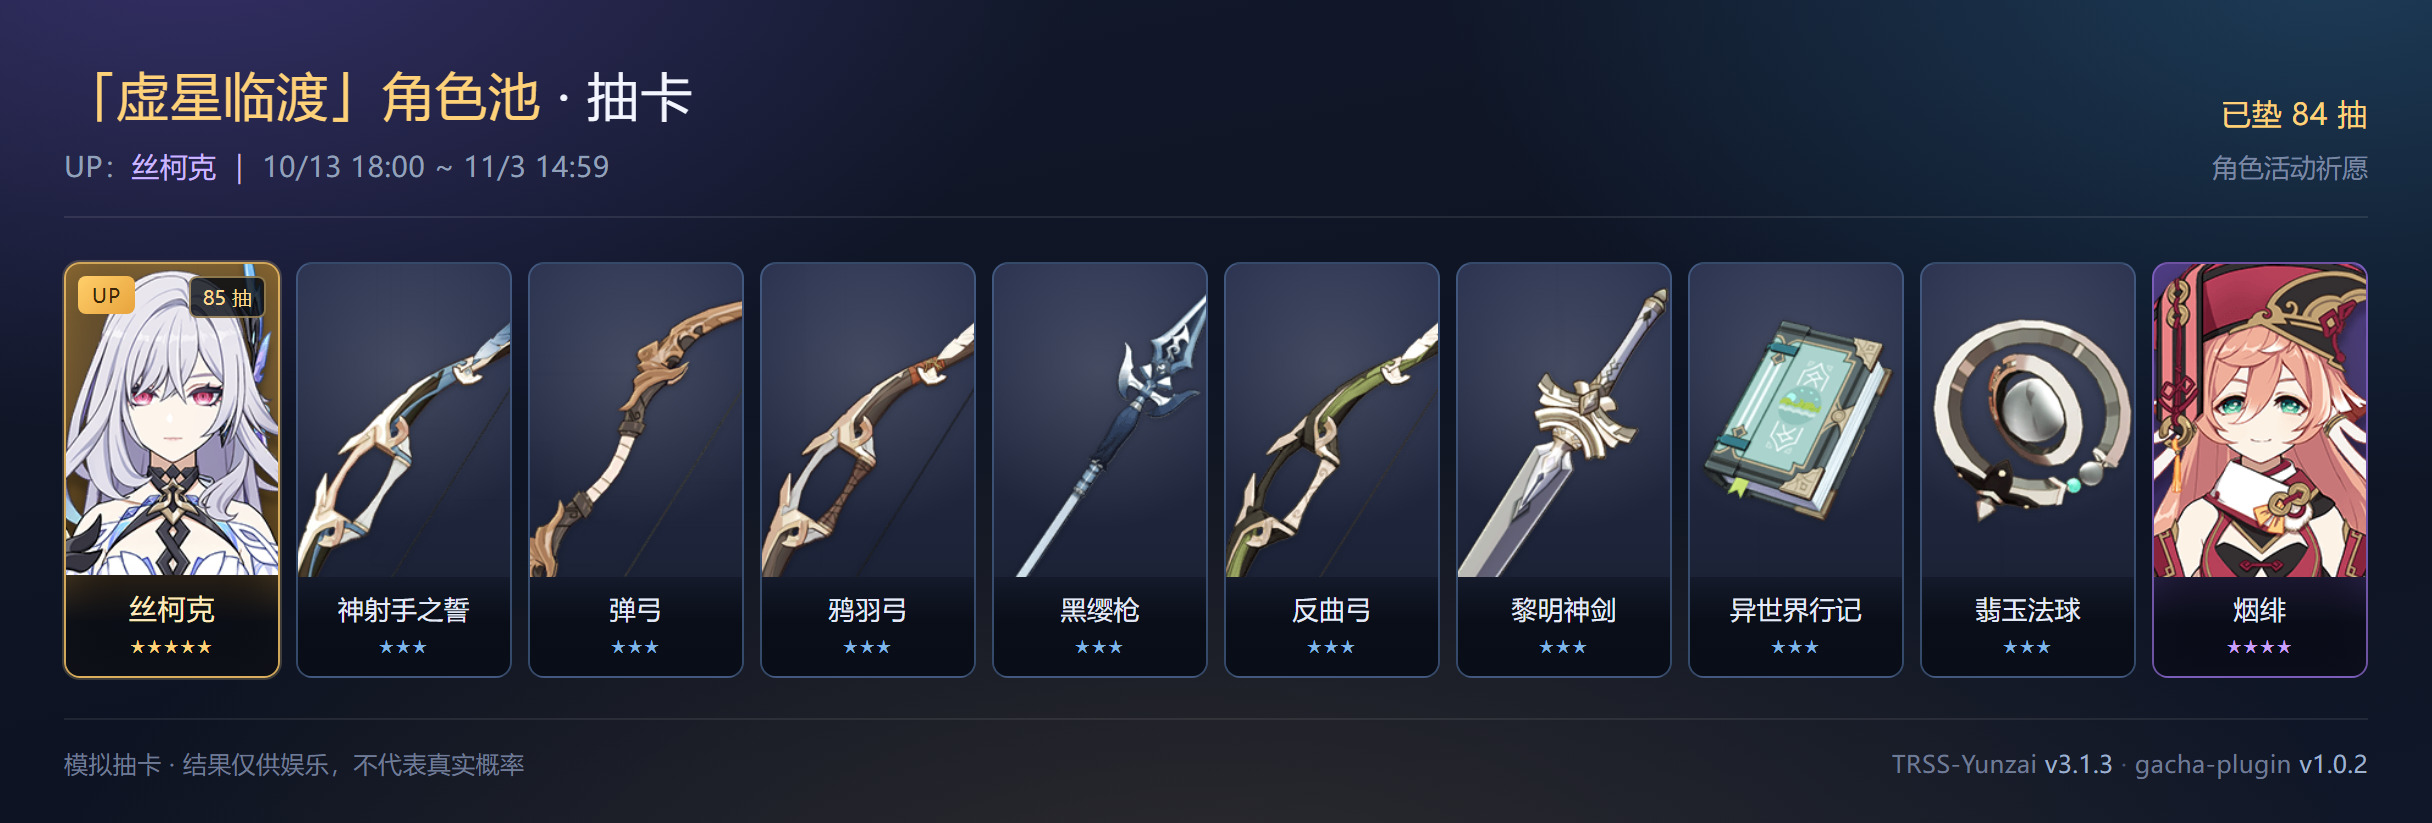
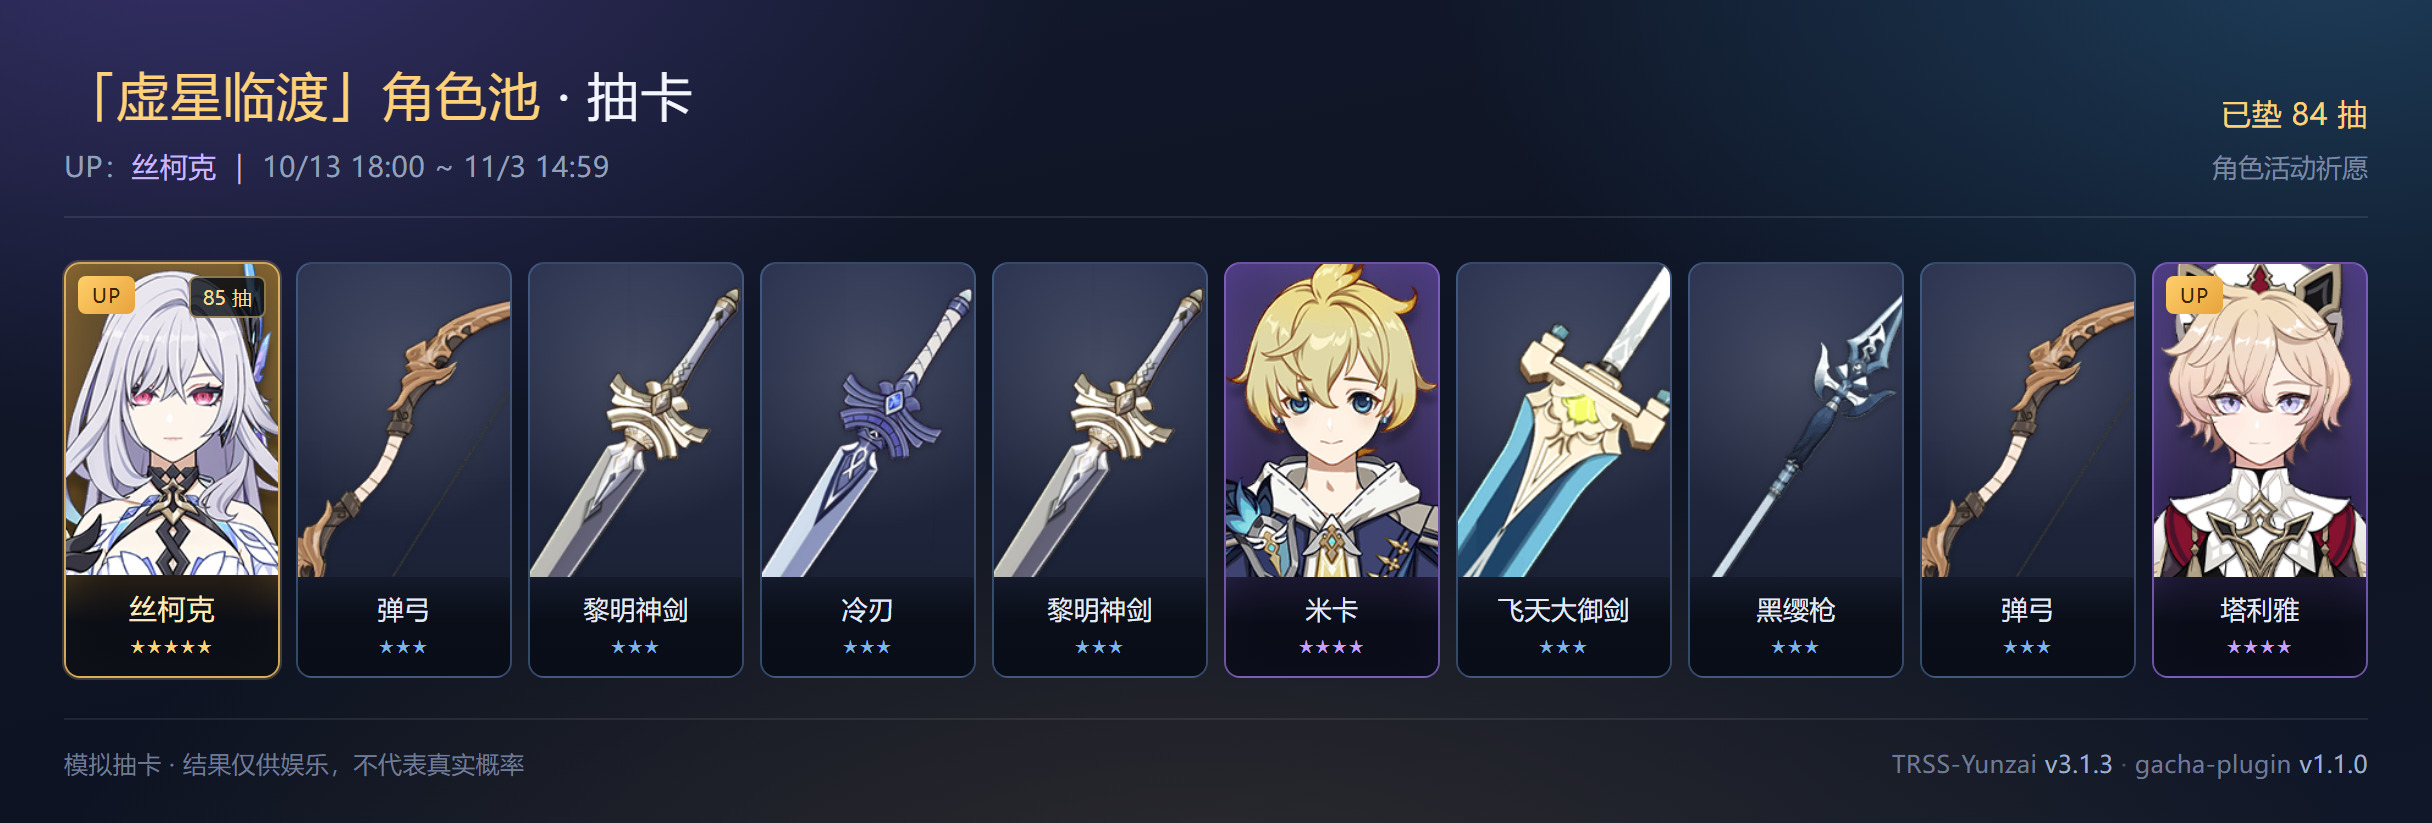
docs: 预览图统一到 v1.1.0，欧皇榜示例改用通用昵称、群号打码，补帮助图

diff --git a/README.md b/README.md
@@ -11,6 +11,8 @@
 
 ![百连（一次 100 抽）](preview-hundred.jpg)
 
+![帮助图](preview-help.jpg)
+
 ## 特性
 
 - 🎴 **三个池子**：角色池（含池 2）、武器池、常驻池，概率与保底按游戏内机制还原
